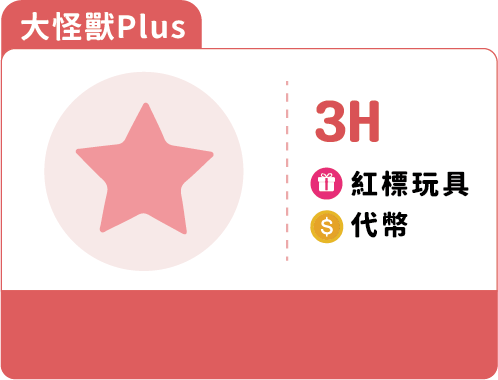
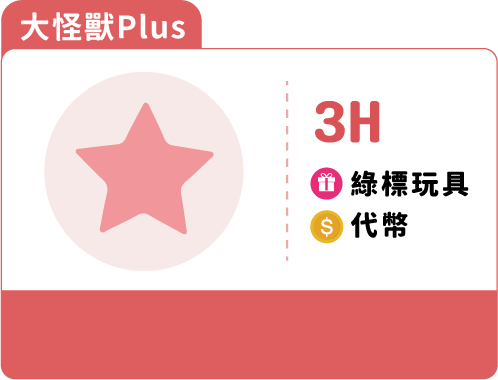
FIX44

diff --git a/js/staff/enterprise-manager.js b/js/staff/enterprise-manager.js
@@ -39,7 +39,7 @@ function normalizeTicketOrder(){sortedTicketIds().forEach(function(id,index){tic
 function ticketArray(){return sortedTicketIds().map(function(id){return {id:id,data:tickets[id]||{}};});}
 function renderTickets(){var q=String((el('ticketSearch')||{}).value||'').toLowerCase(),cat=String((el('ticketCategory')||{}).value||'all'),status=String((el('ticketStatus')||{}).value||'all');var arr=ticketArray().filter(function(x){var t=x.data;return (!q||String(t.title||x.id).toLowerCase().indexOf(q)>=0)&&(cat==='all'||String(t.category||'other')===cat)&&(status==='all'||(status==='on'?t.enable!==false:t.enable===false));});el('ticketSummary').textContent='共 '+Object.keys(tickets).length+' 張｜啟用 '+ticketArray().filter(function(x){return x.data.enable!==false;}).length+' 張';el('enterpriseTicketList').innerHTML=arr.length?arr.map(ticketCard).join(''):'<div class="enterprise-empty">找不到符合條件的票券</div>';}
 function ticketCard(x){var t=x.data,id=x.id;return '<article class="enterprise-ticket" data-id="'+esc(id)+'"><div class="ticket-card-top"><img src="images/'+esc(t.image||'ticket-bg.webp')+'" onerror="this.src=\'images/ticket-bg.webp\'"><div><input class="ticket-title" data-f="title" value="'+esc(t.title||'未命名票券')+'"><small>'+esc(id)+'</small></div><label class="switch"><input type="checkbox" data-f="enable" '+(t.enable!==false?'checked':'')+'><span></span></label></div><div class="ticket-fields"><label>價格<input type="number" min="0" data-f="price" value="'+Number(t.price||0)+'"></label><label>代幣<input type="number" min="0" data-f="token" value="'+Number(t.token||0)+'"></label><label>分類<select data-f="category"><option value="general" '+(t.category==='general'?'selected':'')+'>一般票</option><option value="special" '+(t.category==='special'?'selected':'')+'>限定票</option><option value="other" '+(!t.category||t.category==='other'?'selected':'')+'>其他票</option></select></label><label>玩具<select data-f="toy"><option value="none" '+(!t.toy||t.toy==='none'?'selected':'')+'>無</option><option value="green" '+(t.toy==='green'?'selected':'')+'>綠標</option><option value="red" '+(t.toy==='red'?'selected':'')+'>紅標</option></select></label><label>時間模式<select data-f="timeMode"><option value="duration" '+((t.timeMode||'duration')==='duration'?'selected':'')+'>⏱ 固定時數</option><option value="fixed" '+(t.timeMode==='fixed'?'selected':'')+'>🕒 到指定時間</option><option value="unlimited" '+(t.timeMode==='unlimited'?'selected':'')+'>∞ 無限時</option><option value="none" '+(t.timeMode==='none'?'selected':'')+'>— 不設定</option></select></label><label>固定時數<input type="number" min="1" max="99" data-f="playHours" value="'+Math.min(99,Math.max(1,Number(t.playHours||t.hour||2)))+'"></label><label>指定時間<input type="time" data-f="fixedExitTime" value="'+esc(t.fixedExitTime||'18:00')+'"></label><label class="wide">圖片檔名<input data-f="image" value="'+esc(t.image||'')+'"></label><label class="wide">櫃台領取商品（一行一項）<textarea data-f="pickupItemsText" placeholder="例如：兒童襪子&#10;飲料一瓶">'+esc(t.pickupItemsText||(Array.isArray(t.pickupItems)?t.pickupItems.join('\n'):'')||(t.pickupItem==='socks'?'襪子':''))+'</textarea></label><label class="wide">櫃台提醒<input data-f="pickupNote" value="'+esc(t.pickupNote||'')+'" placeholder="例如：請詢問襪子尺寸"></label><label class="wide">說明<textarea data-f="description">'+esc(t.description||'')+'</textarea></label><label class="wide"><input type="checkbox" data-f="prepaidBundleEnabled" '+(t.prepaidBundleEnabled===true?'checked':'')+'> 此票券為預存入場套票（購買時本次直接入場）</label><label>預存使用票券<select data-f="prepaidTargetTicketId"><option value="">請選擇</option>'+ticketArray().filter(function(target){return target.id!==id&&target.data.canEnter!==false&&!target.data.prepaidBundleEnabled;}).map(function(target){return '<option value="'+esc(target.id)+'" '+(t.prepaidTargetTicketId===target.id?'selected':'')+'>'+esc(target.data.title||target.id)+'</option>';}).join('')+'</select></label><label>存入剩餘次數<input type="number" min="1" max="99" data-f="prepaidStoredCount" value="'+Math.max(1,Number(t.prepaidStoredCount||3))+'"></label><label>一次發放玩具點數<input type="number" min="0" max="999" data-f="prepaidToyPoints" value="'+Math.max(0,Number(t.prepaidToyPoints||4))+'"></label><label>有效天數<input type="number" min="1" max="3650" data-f="prepaidValidityDays" value="'+Math.max(1,Number(t.prepaidValidityDays||180))+'"></label></div><div class="ticket-actions"><button data-act="up">⬆ 上移</button><button data-act="down">⬇ 下移</button><button data-act="bottom">⏬ 移至最下面</button><button data-act="copy">📄 複製</button><button data-act="delete" class="danger">🗑 刪除</button></div></article>';}
-function collectTickets(){document.querySelectorAll('.enterprise-ticket').forEach(function(card){var id=card.dataset.id,t=tickets[id]||{};card.querySelectorAll('[data-f]').forEach(function(f){var k=f.dataset.f;if(k==='enable'||k==='prepaidBundleEnabled')t[k]=f.checked;else if(k==='price'||k==='token'||k==='prepaidStoredCount'||k==='prepaidToyPoints'||k==='prepaidValidityDays')t[k]=Math.max(0,Number(f.value||0));else if(k==='playHours')t[k]=Math.min(99,Math.max(1,Number(f.value||2)));else t[k]=String(f.value||'').trim();});tickets[id]=t;});}
+function collectTickets(){document.querySelectorAll('.enterprise-ticket').forEach(function(card){var id=card.dataset.id,t=tickets[id]||{};card.querySelectorAll('[data-f]').forEach(function(f){var k=f.dataset.f;if(k==='image')return;if(k==='enable'||k==='prepaidBundleEnabled')t[k]=f.checked;else if(k==='price'||k==='token'||k==='prepaidStoredCount'||k==='prepaidToyPoints'||k==='prepaidValidityDays')t[k]=Math.max(0,Number(f.value||0));else if(k==='playHours')t[k]=Math.min(99,Math.max(1,Number(f.value||2)));else t[k]=String(f.value||'').trim();});tickets[id]=t;});}
 function addTicket(){collectTickets();normalizeTicketOrder();var id='custom_'+Date.now();tickets[id]={title:'新票券',price:0,token:0,toy:'none',category:'other',enable:true,image:'ticket-bg.webp',description:'',pickupItems:[],pickupItemsText:'',pickupNote:'',custom:true,canEnter:false,admissionRequired:false,timeMode:'none',playHours:2,playMinutes:0,fixedExitTime:'',prepaidBundleEnabled:false,prepaidTargetTicketId:'',prepaidStoredCount:3,prepaidToyPoints:4,prepaidValidityDays:180,sortOrder:sortedTicketIds().length};renderTickets();setTimeout(function(){var c=document.querySelector('[data-id="'+id+'"]');if(c)c.scrollIntoView({behavior:'smooth'});},30);}
 function ticketAction(e){var btn=e.target.closest('[data-act]');if(!btn)return;collectTickets();normalizeTicketOrder();var card=btn.closest('.enterprise-ticket'),id=card.dataset.id,act=btn.dataset.act,ids=sortedTicketIds(),i=ids.indexOf(id);if(act==='delete'){if(!confirm('確定刪除「'+(tickets[id].title||id)+'」？'))return;delete tickets[id];normalizeTicketOrder();}else if(act==='copy'){var nid='custom_'+Date.now();tickets[nid]=JSON.parse(JSON.stringify(tickets[id]));tickets[nid].title=(tickets[id].title||'票券')+' 複製';tickets[nid].custom=true;tickets[nid].sortOrder=ids.length;}else if(act==='bottom'){if(i<0||i===ids.length-1)return;ids.splice(i,1);ids.push(id);ids.forEach(function(k,order){tickets[k].sortOrder=order;});}else{var j=i+(act==='up'?-1:1);if(j<0||j>=ids.length)return;var tmp=ids[i];ids[i]=ids[j];ids[j]=tmp;ids.forEach(function(k,order){tickets[k].sortOrder=order;});}renderTickets();}
 function deleteSingleOrder(id,button){
@@ -105,7 +105,7 @@ if(ordersRef){
 }
 }
 function saveTickets(){collectTickets();normalizeTicketOrder();if(window.MonsterTicketDataSync)tickets=MonsterTicketDataSync.normalizeMap(tickets);var titles={};for(var id in tickets){var title=(tickets[id].title||'').trim();if(!title){notify('票券名稱不可空白',false);return;}if(titles[title]){notify('票券名稱重複：'+title,false);return;}titles[title]=true;if(tickets[id].prepaidBundleEnabled===true){if(!tickets[id].prepaidTargetTicketId||!tickets[tickets[id].prepaidTargetTicketId]){notify('預存套票「'+title+'」必須選擇預存使用票券',false);return;}tickets[id].prepaidStoredCount=Math.max(1,Math.floor(Number(tickets[id].prepaidStoredCount||3)));tickets[id].prepaidToyPoints=Math.max(0,Math.floor(Number(tickets[id].prepaidToyPoints||0)));tickets[id].prepaidValidityDays=Math.max(1,Math.floor(Number(tickets[id].prepaidValidityDays||180)));tickets[id].toy='none';tickets[id].canEnter=true;tickets[id].admissionRequired=true;}var tm=tickets[id].timeMode||'duration';tickets[id].playHours=Math.min(99,Math.max(1,Number(tickets[id].playHours||2)));tickets[id].playMinutes=tm==='duration'?tickets[id].playHours*60:0;tickets[id].hour=tm==='duration'?tickets[id].playHours:0;tickets[id].fixedExitTime=tm==='fixed'?(tickets[id].fixedExitTime||'18:00'):'';if(tickets[id].canEnter===false)tickets[id].timeMode='none';if(window.MonsterRewardEngine)tickets[id]=MonsterRewardEngine.normalizeTicket(tickets[id]);tickets[id].reward=[Number(tickets[id].token)>0?'token':'',tickets[id].toy&&tickets[id].toy!=='none'?'toy':'',tickets[id].canEnter!==false?'band':'',tickets[id].pickupItems&&tickets[id].pickupItems.length?'pickup':''].filter(Boolean).join(',');}
-localStorage.setItem('ticketData',JSON.stringify(tickets));if(ticketsRef){var map={};Object.keys(tickets).forEach(function(id){map[id]=Object.assign({id:id,updatedAt:Date.now(),updatedBy:(window.currentUser&&window.currentUser.name)||'manager'},tickets[id]);});ticketsRef.set(map).then(function(){notify('票券設定已儲存並同步');}).catch(function(){notify('已存本機，但雲端同步失敗',false);});}else notify('票券設定已儲存在本機');}
+localStorage.setItem('ticketData',JSON.stringify(tickets));if(ticketsRef){var map={};Object.keys(tickets).forEach(function(id){map[id]=Object.assign({id:id,updatedAt:Date.now(),updatedBy:(window.currentUser&&window.currentUser.name)||'manager'},tickets[id]);});ticketsRef.once('value').then(function(snapshot){var cloud=snapshot.val()||{};Object.keys(map).forEach(function(id){if(cloud[id]&&cloud[id].image)map[id].image=cloud[id].image;});return ticketsRef.set(map);}).then(function(){notify('票券設定已儲存並同步（圖片已保留）');}).catch(function(){notify('已存本機，但雲端同步失敗',false);});}else notify('票券設定已儲存在本機');}
 function bind(){document.querySelectorAll('[data-enterprise-open]').forEach(function(b){b.addEventListener('click',function(){openPanel(b.dataset.enterpriseOpen);});});el('enterpriseClose').addEventListener('click',closePanel);el('enterpriseOverlay').addEventListener('click',function(e){if(e.target===this)closePanel();});document.querySelectorAll('.enterprise-period [data-period]').forEach(function(b){b.addEventListener('click',function(){setPeriod(b.dataset.period);});});el('ticketSearch').addEventListener('input',renderTickets);el('ticketCategory').addEventListener('change',renderTickets);el('ticketStatus').addEventListener('change',renderTickets);el('ticketAdd').addEventListener('click',addTicket);el('ticketSave').addEventListener('click',saveTickets);el('enterpriseTicketList').addEventListener('click',ticketAction);el('dashRefresh').addEventListener('click',renderDashboard);if(el('dashDateApply'))el('dashDateApply').addEventListener('click',applyCustomRange);if(el('dashRecent'))el('dashRecent').addEventListener('click',orderDeleteAction);var resetBtn=el('dashResetOrders');if(resetBtn)resetBtn.addEventListener('click',resetAllOrders);}
 document.addEventListener('DOMContentLoaded',function(){bind();startData();});
 window.MonsterEnterpriseManager={open:openPanel,close:closePanel,renderDashboard:renderDashboard,renderTickets:renderTickets,resetAllOrders:resetAllOrders,deleteSingleOrder:deleteSingleOrder,setPeriod:setPeriod,applyCustomRange:applyCustomRange};

diff --git a/tests/fix44-mobile-image-protection.test.js b/tests/fix44-mobile-image-protection.test.js
@@ -1,0 +1,19 @@
+const fs = require('fs');
+const path = require('path');
+const root = path.resolve(__dirname, '..');
+const manager = fs.readFileSync(path.join(root, 'js/staff/enterprise-manager.js'), 'utf8');
+const staff = fs.readFileSync(path.join(root, 'staff.html'), 'utf8');
+const sw = fs.readFileSync(path.join(root, 'service-worker.js'), 'utf8');
+
+function ok(condition, message) {
+  if (!condition) throw new Error(message);
+}
+
+ok(manager.indexOf("if(k==='image')return") >= 0, 'mobile collector must not edit image');
+ok(manager.indexOf("ticketsRef.once('value')") >= 0, 'save must read cloud before writing');
+ok(manager.indexOf("map[id].image=cloud[id].image") >= 0, 'save must preserve cloud image');
+ok(manager.indexOf('圖片已保留') >= 0, 'success message must confirm image protection');
+ok(staff.indexOf('enterprise-manager.js?v=fix44') >= 0, 'staff must load FIX44 manager');
+ok(sw.indexOf('7833-fix44-mobile-image-protection') >= 0, 'service worker cache must be bumped');
+
+console.log('FIX44 mobile image protection tests passed');

diff --git a/staff.html b/staff.html
@@ -746,7 +746,7 @@
 <!-- Preserved FIX34 marker: enterprise-manager.js?v=fix34 -->
 <!-- Preserved FIX37 marker: enterprise-manager.js?v=fix37 -->
 <!-- Preserved FIX41 marker: enterprise-manager.js?v=fix41 -->
-<script src="js/staff/enterprise-manager.js?v=fix43"></script>
+<script src="js/staff/enterprise-manager.js?v=fix44"></script>
 <script src="js/staff/consume-points-manager.js?v=7833fix27b"></script>
 <script src="js/cloud/cloud-order-lifecycle.js?v=770"></script>
 <script src="js/cloud/v71-migration.js?v=72"></script>

diff --git a/service-worker.js b/service-worker.js
@@ -27,7 +27,7 @@
 "use strict";
 
 var CACHE_PREFIX = "monster-ticket-pwa-";
-var CACHE_NAME = CACHE_PREFIX + "7833-fix43-prepaid-entry-20261019-1";
+var CACHE_NAME = CACHE_PREFIX + "7833-fix44-mobile-image-protection-20261019-1";
 var OFFLINE_PAGE = "./offline.html";
 var CORE_ASSETS = [
     "./index.html",
